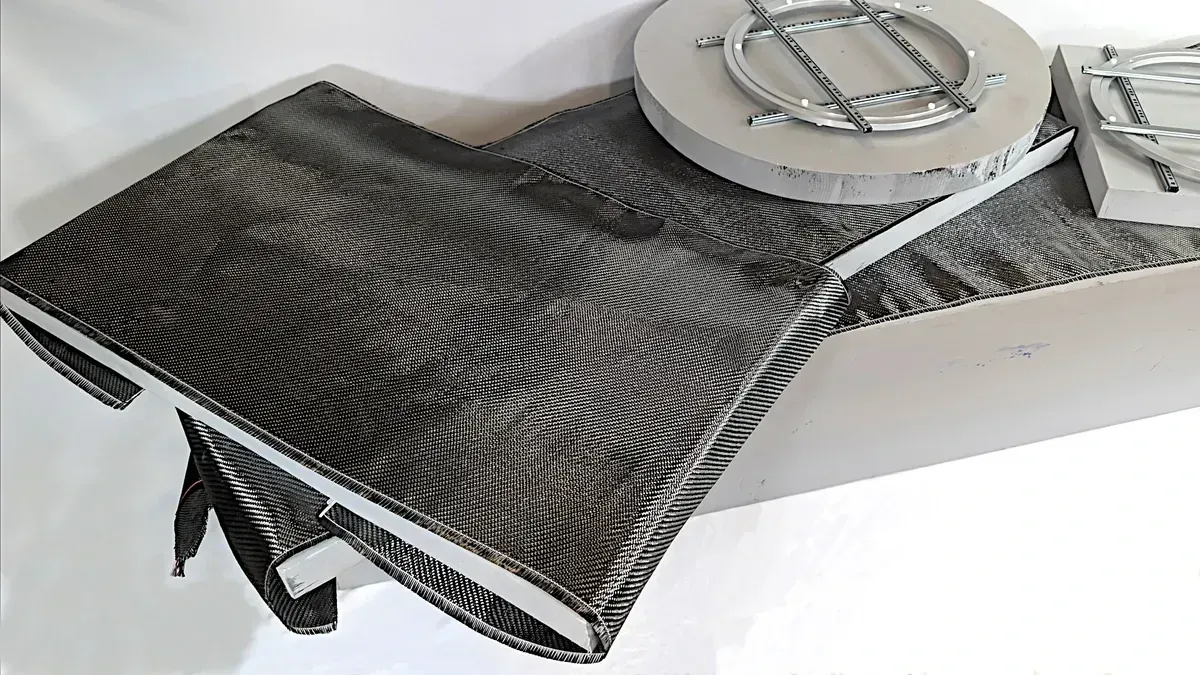
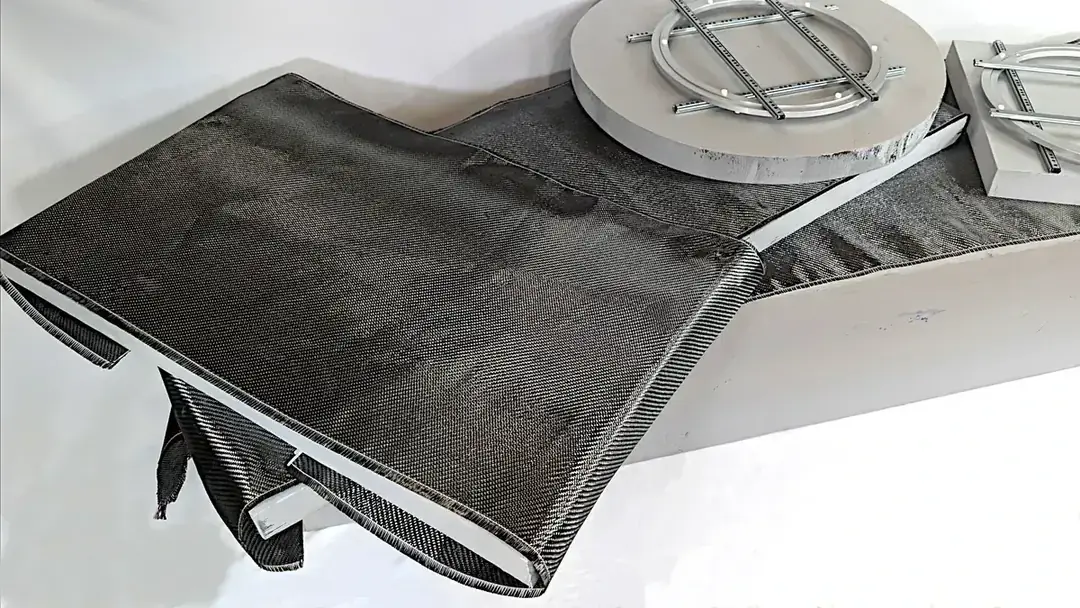
Eliminate studio carousel initial black background flash with instant inline image placeholder and image optimization

diff --git a/studio.html b/studio.html
@@ -19,7 +19,8 @@
   <link rel="preload" as="style" href="https://cdn.jsdelivr.net/npm/bootstrap@5.3.2/dist/css/bootstrap.min.css" onload="this.rel='stylesheet'">
   <noscript><link rel="stylesheet" href="https://cdn.jsdelivr.net/npm/bootstrap@5.3.2/dist/css/bootstrap.min.css"></noscript>
   <link rel="preload" as="style" href="https://cdn.jsdelivr.net/npm/bootstrap-icons@1.11.3/font/bootstrap-icons.min.css?display=swap" onload="this.rel='stylesheet'" font-display="swap">
-  <link rel="stylesheet" href="css/resa-widget.css" />
+  <link rel="preload" as="style" href="css/resa-widget.css" onload="this.rel='stylesheet'">
+  <noscript><link rel="stylesheet" href="css/resa-widget.css"></noscript>
 
   <style>
 
@@ -776,7 +777,7 @@
     <div id="studioCarousel" class="carousel slide carousel-fade hero-image-wrapper" data-bs-ride="carousel" data-bs-interval="5000" style="background: #0b0c10;">
       <div class="carousel-inner w-100 h-100">
         <!-- Slide 1: Prototype No.7 A -->
-        <div class="carousel-item active w-100 h-100" style="background: #000000;">
[1 lines of base64/hex data omitted]
           <a href="https://www.archscul.com/" target="_blank" rel="noopener" class="d-block w-100 h-100 text-decoration-none position-relative">
             <img src="assets/prono7a-carousel.webp" class="d-block w-100 h-100" alt="Prototype No.7 - Carbon Fiber Table" style="object-fit: cover; width: 100%; height: 100%; filter: brightness(0.75);" fetchpriority="high">
             <div class="hero-content position-absolute top-50 start-50 translate-middle text-center w-100 px-3" style="z-index: 2;">

diff --git a/studio/index.html b/studio/index.html
@@ -19,7 +19,8 @@
   <link rel="preload" as="style" href="https://cdn.jsdelivr.net/npm/bootstrap@5.3.2/dist/css/bootstrap.min.css" onload="this.rel='stylesheet'">
   <noscript><link rel="stylesheet" href="https://cdn.jsdelivr.net/npm/bootstrap@5.3.2/dist/css/bootstrap.min.css"></noscript>
   <link rel="preload" as="style" href="https://cdn.jsdelivr.net/npm/bootstrap-icons@1.11.3/font/bootstrap-icons.min.css?display=swap" onload="this.rel='stylesheet'" font-display="swap">
-  <link rel="stylesheet" href="css/resa-widget.css" />
+  <link rel="preload" as="style" href="css/resa-widget.css" onload="this.rel='stylesheet'">
+  <noscript><link rel="stylesheet" href="css/resa-widget.css"></noscript>
 
   <style>
 
@@ -776,7 +777,7 @@
     <div id="studioCarousel" class="carousel slide carousel-fade hero-image-wrapper" data-bs-ride="carousel" data-bs-interval="5000" style="background: #0b0c10;">
       <div class="carousel-inner w-100 h-100">
         <!-- Slide 1: Prototype No.7 A -->
-        <div class="carousel-item active w-100 h-100" style="background: #000000;">
[1 lines of base64/hex data omitted]
           <a href="https://www.archscul.com/" target="_blank" rel="noopener" class="d-block w-100 h-100 text-decoration-none position-relative">
             <img src="assets/prono7a-carousel.webp" class="d-block w-100 h-100" alt="Prototype No.7 - Carbon Fiber Table" style="object-fit: cover; width: 100%; height: 100%; filter: brightness(0.75);" fetchpriority="high">
             <div class="hero-content position-absolute top-50 start-50 translate-middle text-center w-100 px-3" style="z-index: 2;">
